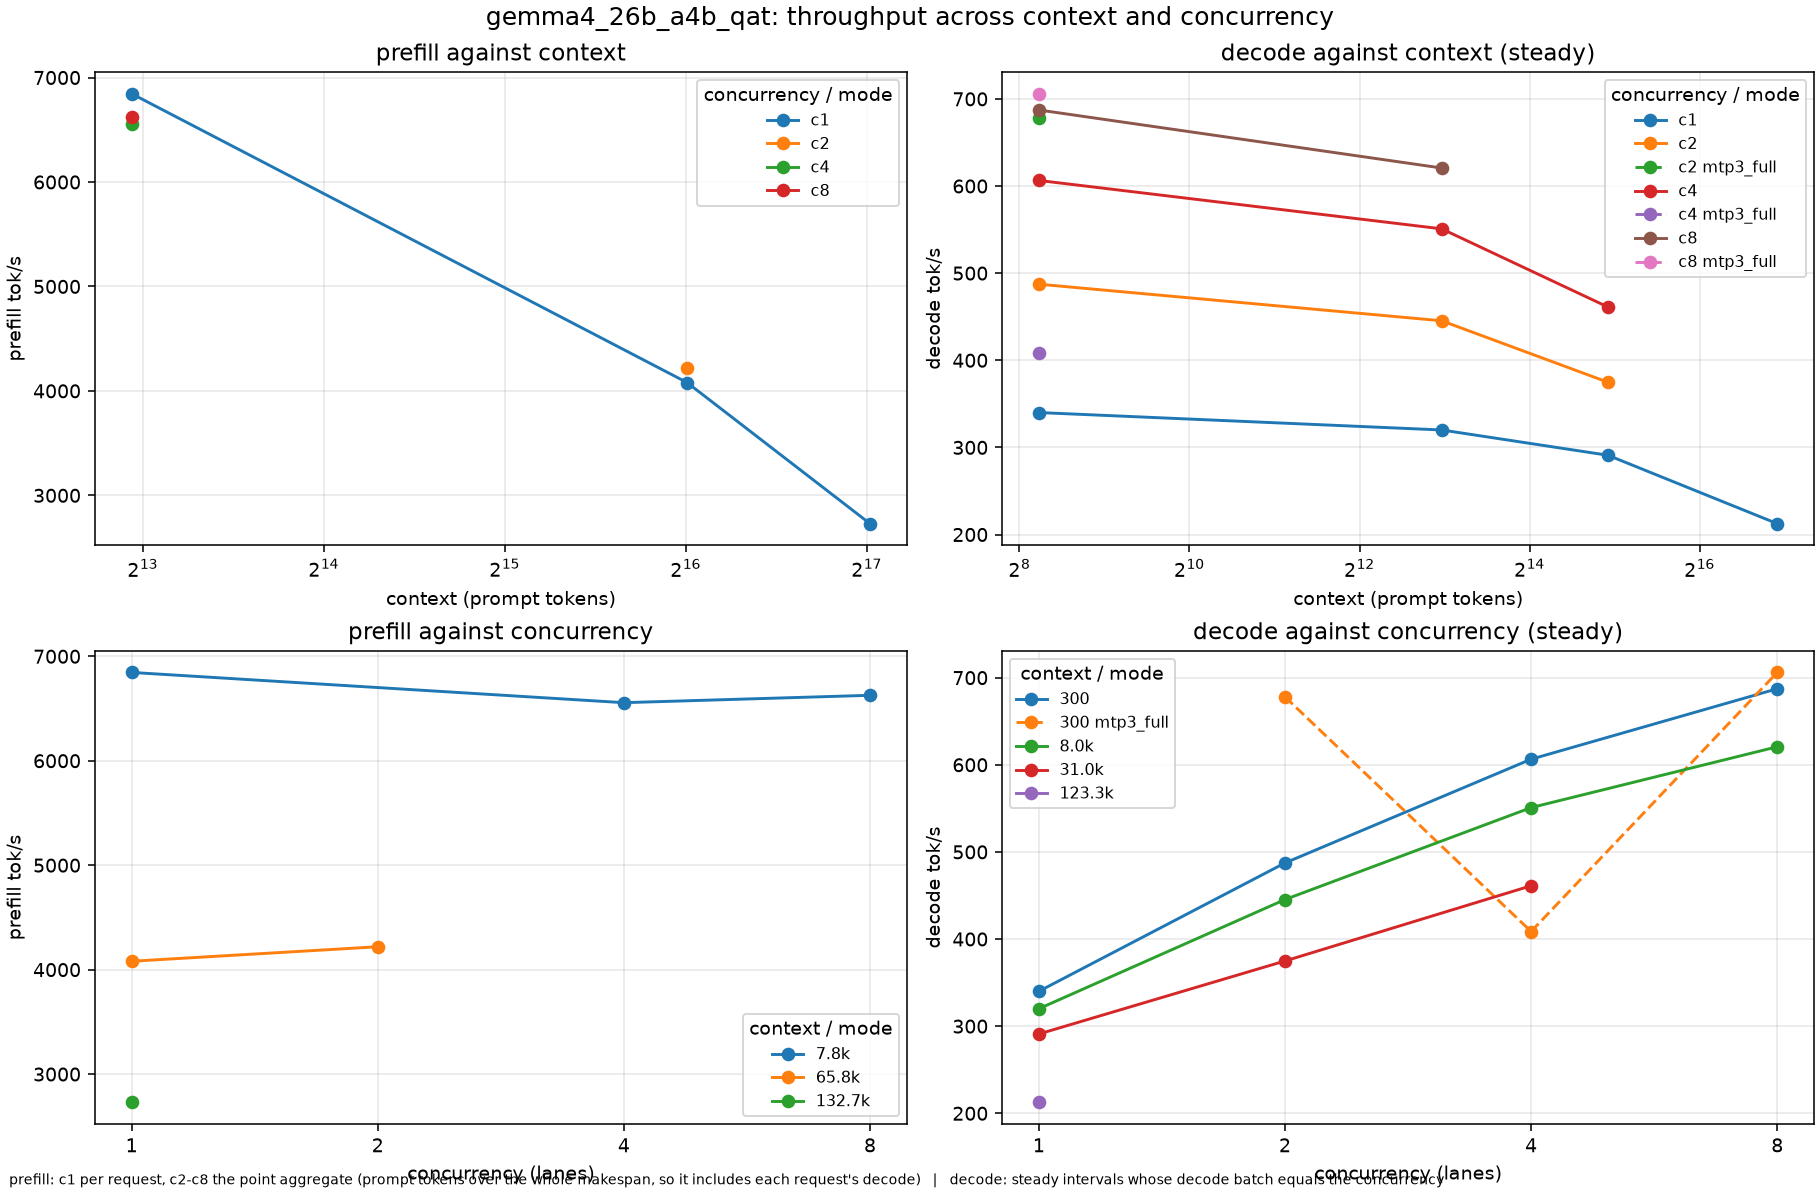
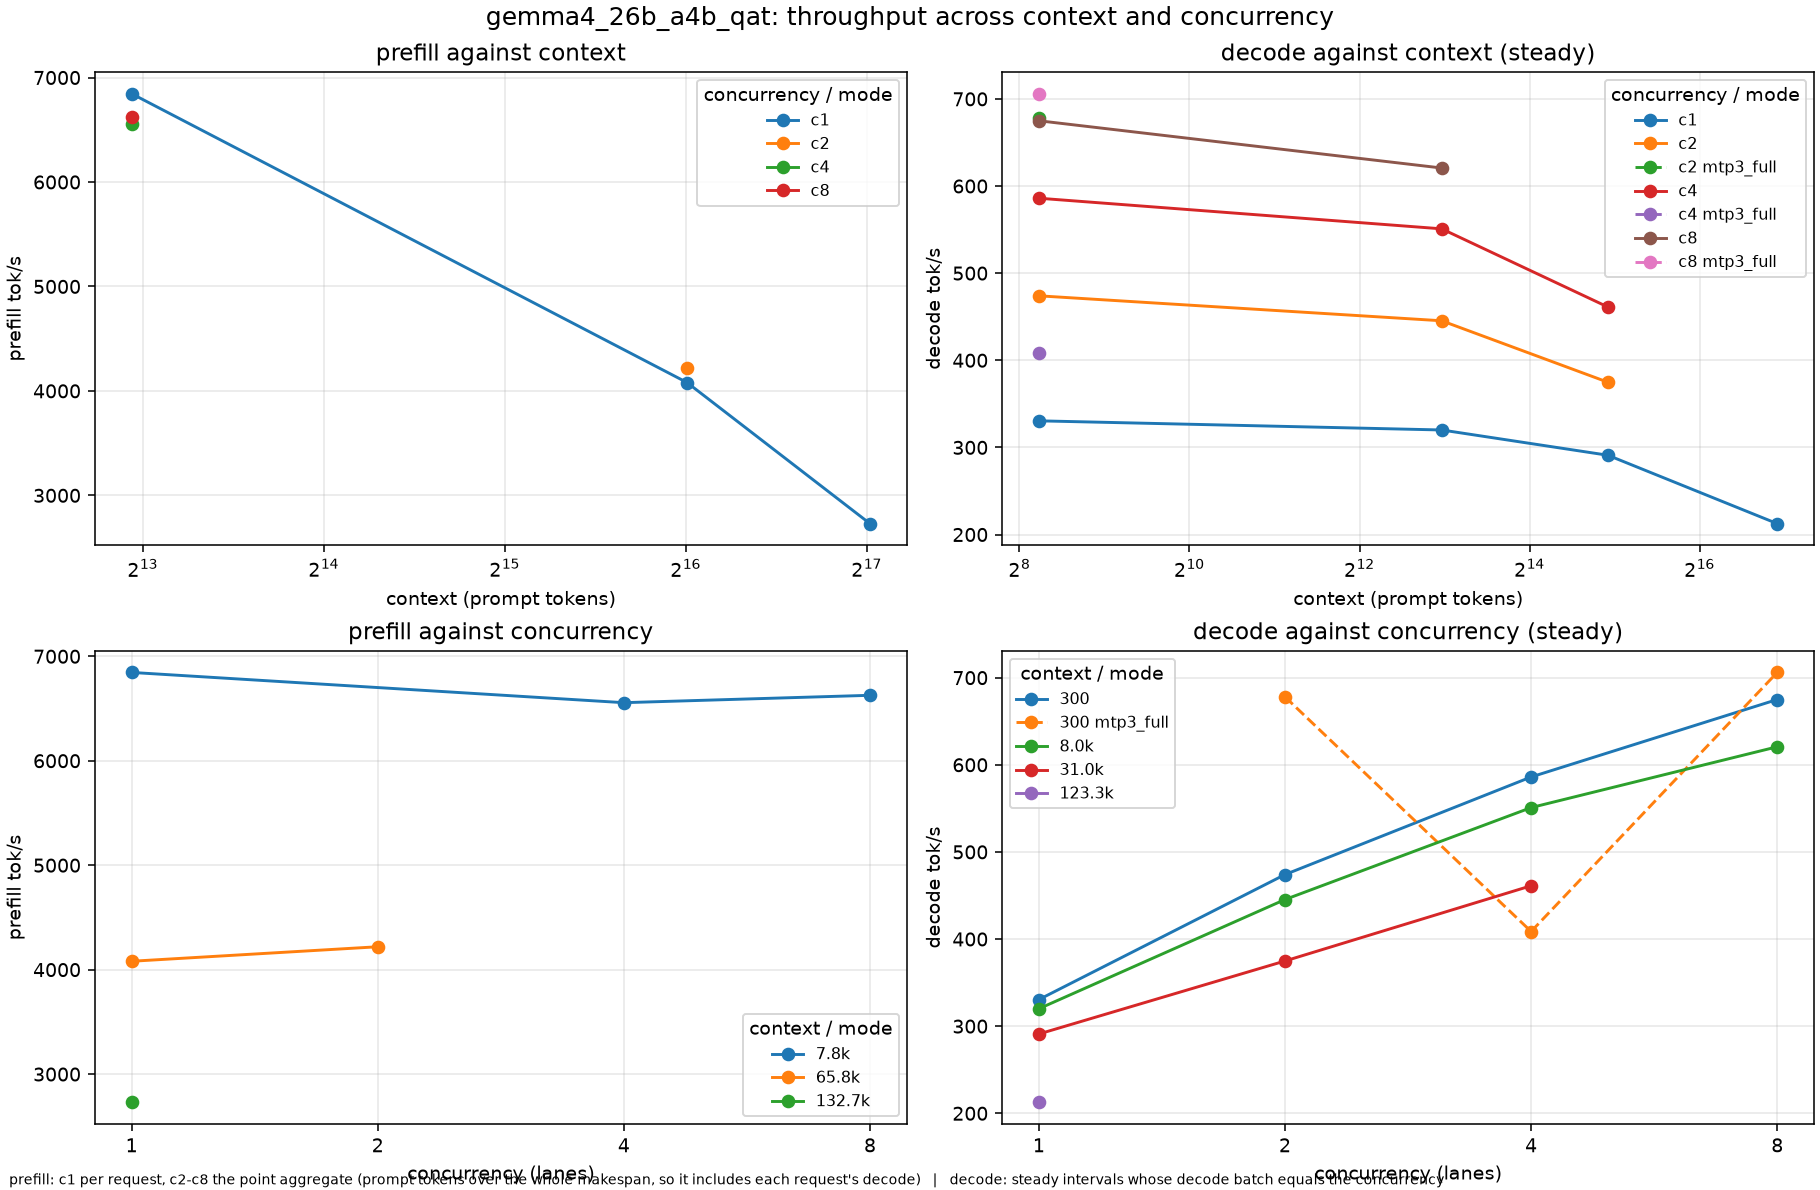
fix(bench): make the master charts' series first-wins so a chart quotes the run the prose does
Two runs measure the same plain decode cells -- the decode-saturation pass and the speculative A/B's own plain arm -- and they differ by 1.2-2.9% on this clock-sensitive box. decode_series overwrote on a duplicate (concurrency, context, mode), so the charts plotted the A/B's plain arm while the README quotes the decode pass. It now keeps the first reading per cell, documented, so passing the decode pass first makes chart and text agree; the A/B still contributes its speculative series. Charts regenerated and screenshots/ refreshed.

diff --git a/tools/bench/plot_master.py b/tools/bench/plot_master.py
@@ -76,6 +76,11 @@ def decode_series(readings: list[dict[str, Any]]) -> dict[tuple[int, int, str], 
 
     The plain path keeps an empty mode string -- it is the baseline a chart reads against -- and any
     speculative run keeps its mode name, which is also what makes the line dashed.
+
+    First reading wins per cell. Two runs measure the same plain cells (the decode pass and the
+    speculative A/B's own plain arm, which exist to make the ratio), and they differ by one to three
+    percent on this clock-sensitive box; pass the decode pass first so a chart plots the run the prose
+    quotes, and let the A/B contribute only its speculative series.
     """
     out: dict[tuple[int, int, str], float] = {}
     for reading in readings:
@@ -86,7 +91,7 @@ def decode_series(readings: list[dict[str, Any]]) -> dict[tuple[int, int, str], 
             continue
         mode = reading.get("mode") or ""
         plain = "" if mode in ("mtp0", "none", "None") else str(mode)
-        out[(reading["concurrency"], reading["context"], plain)] = float(value)
+        out.setdefault((reading["concurrency"], reading["context"], plain), float(value))
     return out
 
 
